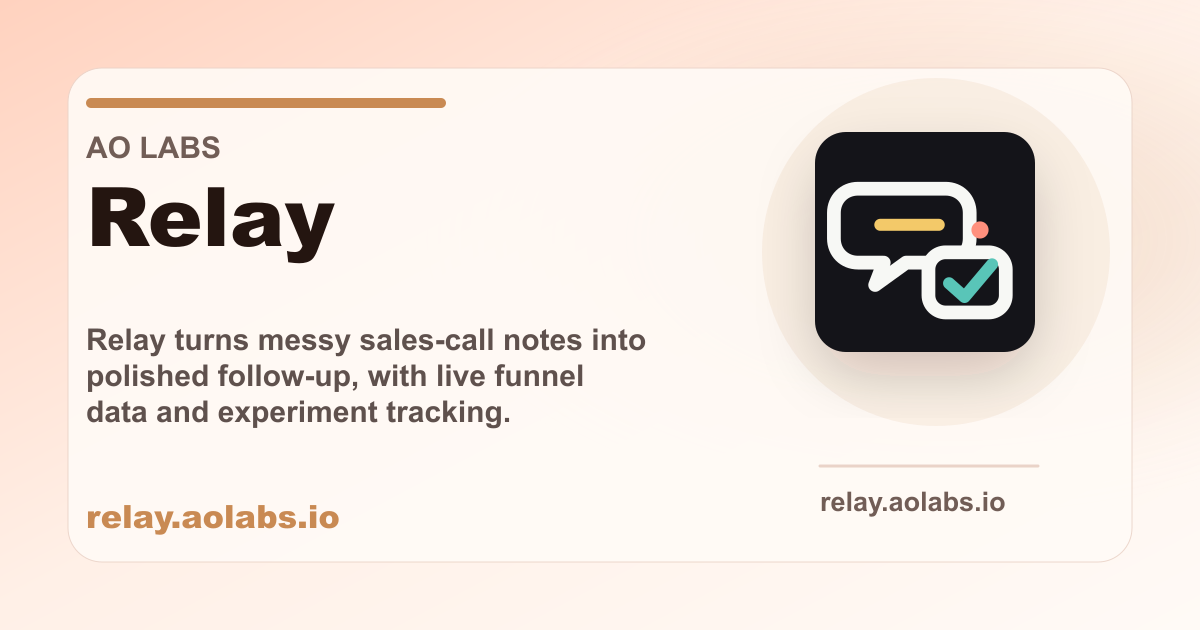
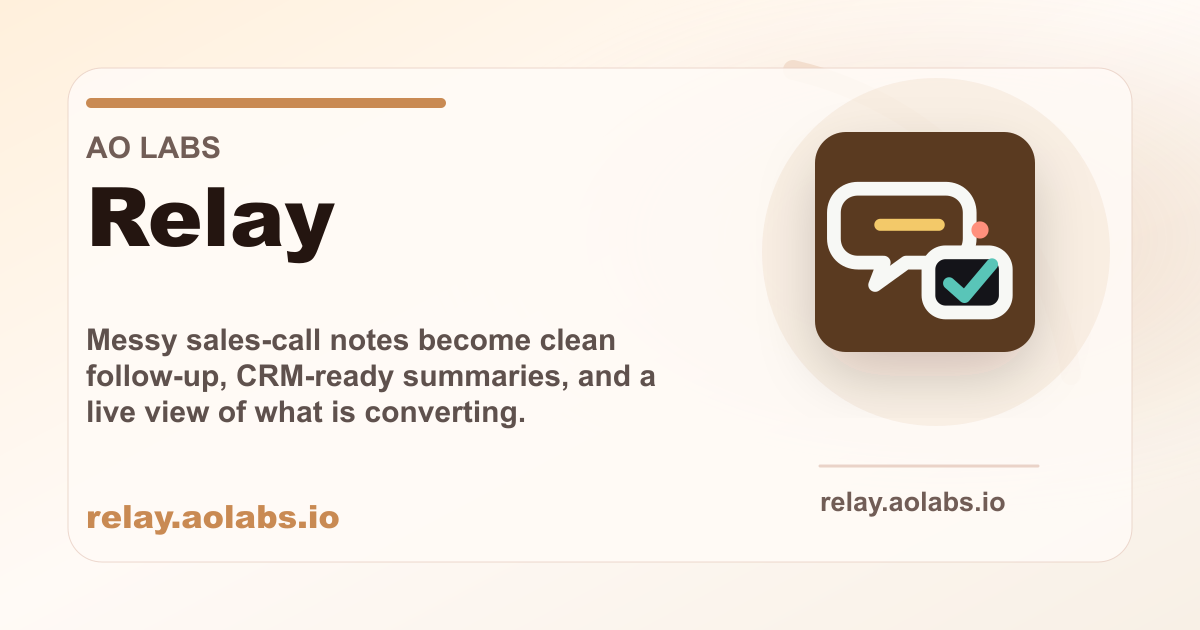
Refine social preview themes

Changed region(s): [[0.0617, 0.5127, 0.555, 0.6937], [0.6783, 0.2111, 0.8633, 0.573], [0.0, 0.0, 0.3392, 0.3317]]

diff --git a/client-intake.html b/client-intake.html
@@ -4,7 +4,7 @@
   <meta charset="utf-8" />
   <meta name="viewport" content="width=device-width,initial-scale=1" />
   <title>Relay - paid client intake</title>
-  <meta name="description" content="Relay turns messy sales-call notes into polished follow-up, with live funnel data and experiment tracking.">
+  <meta name="description" content="Messy sales-call notes become clean follow-up, CRM-ready summaries, and a live view of what is converting.">
   <link rel="canonical" href="https://relay.aolabs.io/client-intake.html" />
   <meta name="twitter:image:alt" content="Relay by AO Labs preview card.">
   <meta property="og:image:alt" content="Relay by AO Labs preview card.">
@@ -13,14 +13,14 @@
   <meta property="og:type" content="website">
   <meta property="og:site_name" content="AO Labs">
   <meta property="og:title" content="Relay">
-  <meta property="og:description" content="Relay turns messy sales-call notes into polished follow-up, with live funnel data and experiment tracking.">
+  <meta property="og:description" content="Messy sales-call notes become clean follow-up, CRM-ready summaries, and a live view of what is converting.">
   <meta property="og:url" content="https://relay.aolabs.io/">
   <meta property="og:image" content="https://relay.aolabs.io/og-image-20260506.png">
   <meta property="og:image:width" content="1200">
   <meta property="og:image:height" content="630">
   <meta name="twitter:card" content="summary_large_image">
   <meta name="twitter:title" content="Relay">
-  <meta name="twitter:description" content="Relay turns messy sales-call notes into polished follow-up, with live funnel data and experiment tracking.">
+  <meta name="twitter:description" content="Messy sales-call notes become clean follow-up, CRM-ready summaries, and a live view of what is converting.">
   <meta name="twitter:image" content="https://relay.aolabs.io/og-image-20260506.png">
   <link rel="icon" href="/favicon.svg?v=20260506-icons" type="image/svg+xml">
   <meta name="theme-color" content="#ffd6c5" />

diff --git a/index.html b/index.html
@@ -4,11 +4,11 @@
   <meta charset="utf-8">
   <meta name="viewport" content="width=device-width, initial-scale=1">
   <title>Relay | Live data</title>
-  <meta name="description" content="Relay turns messy sales-call notes into polished follow-up, with live funnel data and experiment tracking.">
+  <meta name="description" content="Messy sales-call notes become clean follow-up, CRM-ready summaries, and a live view of what is converting.">
   <link rel="canonical" href="https://relay.aolabs.io/">
   <meta name="twitter:image:alt" content="Relay by AO Labs preview card.">
   <meta name="twitter:image" content="https://relay.aolabs.io/og-image-20260506.png">
-  <meta name="twitter:description" content="Relay turns messy sales-call notes into polished follow-up, with live funnel data and experiment tracking.">
+  <meta name="twitter:description" content="Messy sales-call notes become clean follow-up, CRM-ready summaries, and a live view of what is converting.">
   <meta name="twitter:title" content="Relay">
   <meta name="twitter:card" content="summary_large_image">
   <meta property="og:image:alt" content="Relay by AO Labs preview card.">
@@ -18,7 +18,7 @@
   <meta property="og:image:secure_url" content="https://relay.aolabs.io/og-image-20260506.png">
   <meta property="og:image" content="https://relay.aolabs.io/og-image-20260506.png">
   <meta property="og:url" content="https://relay.aolabs.io/">
-  <meta property="og:description" content="Relay turns messy sales-call notes into polished follow-up, with live funnel data and experiment tracking.">
+  <meta property="og:description" content="Messy sales-call notes become clean follow-up, CRM-ready summaries, and a live view of what is converting.">
   <meta property="og:title" content="Relay">
   <meta property="og:site_name" content="AO Labs">
   <meta property="og:type" content="website">
